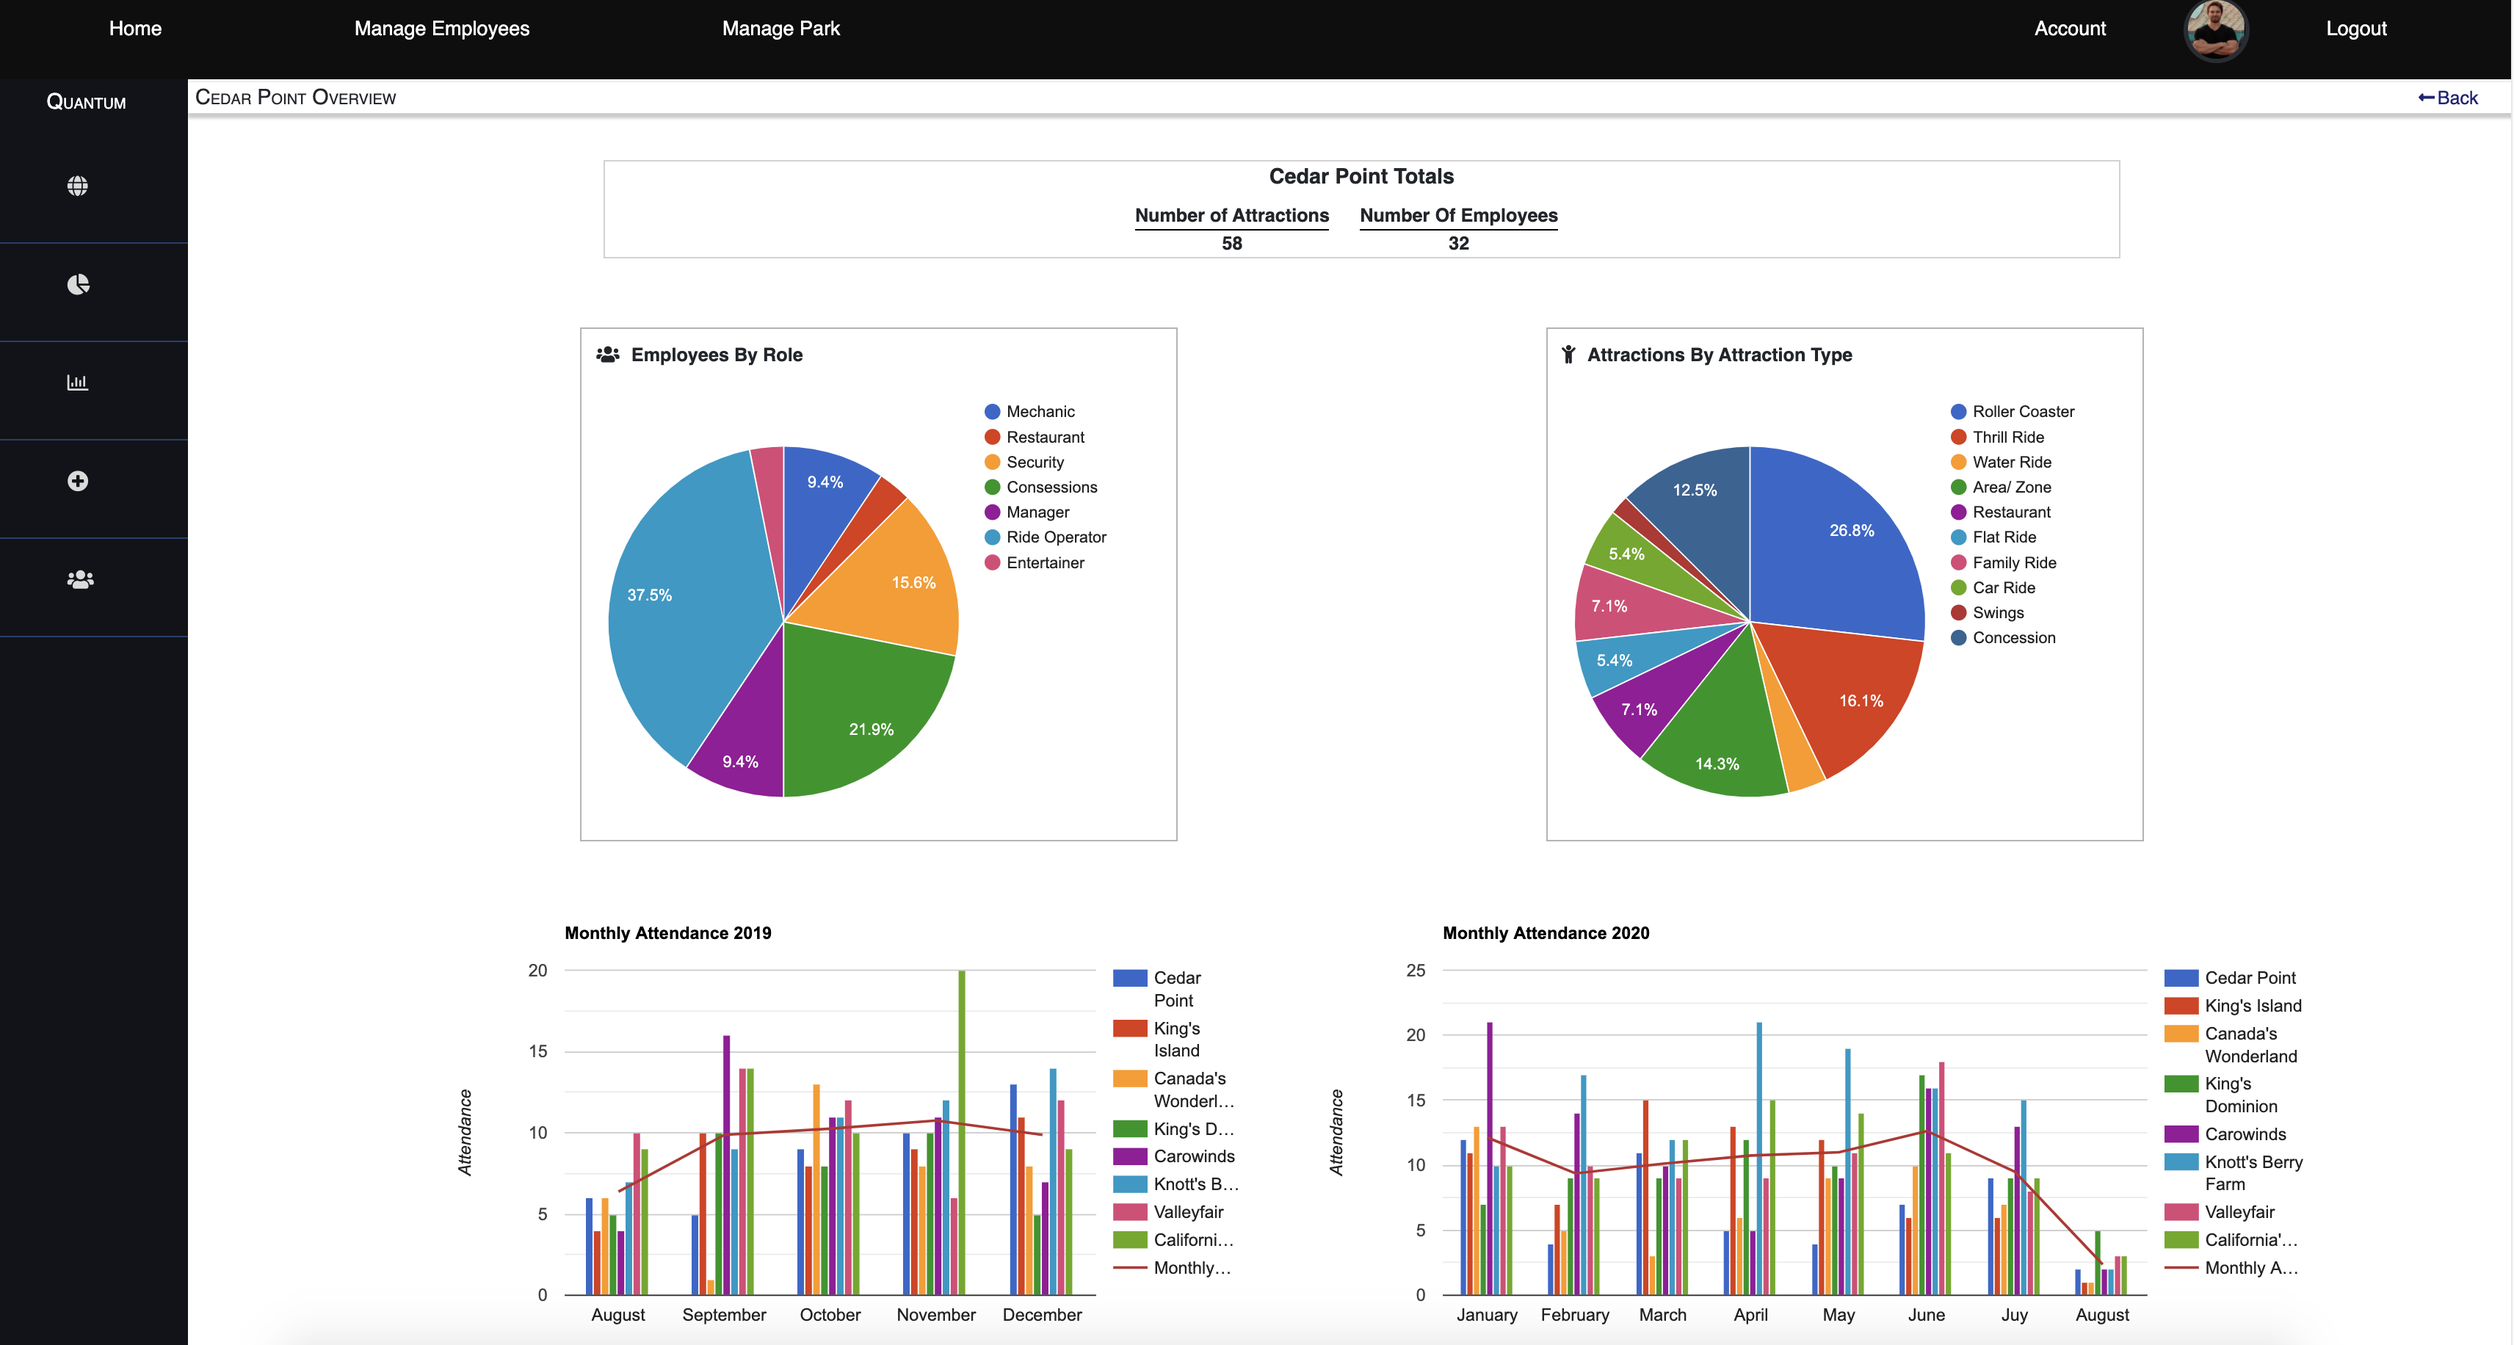
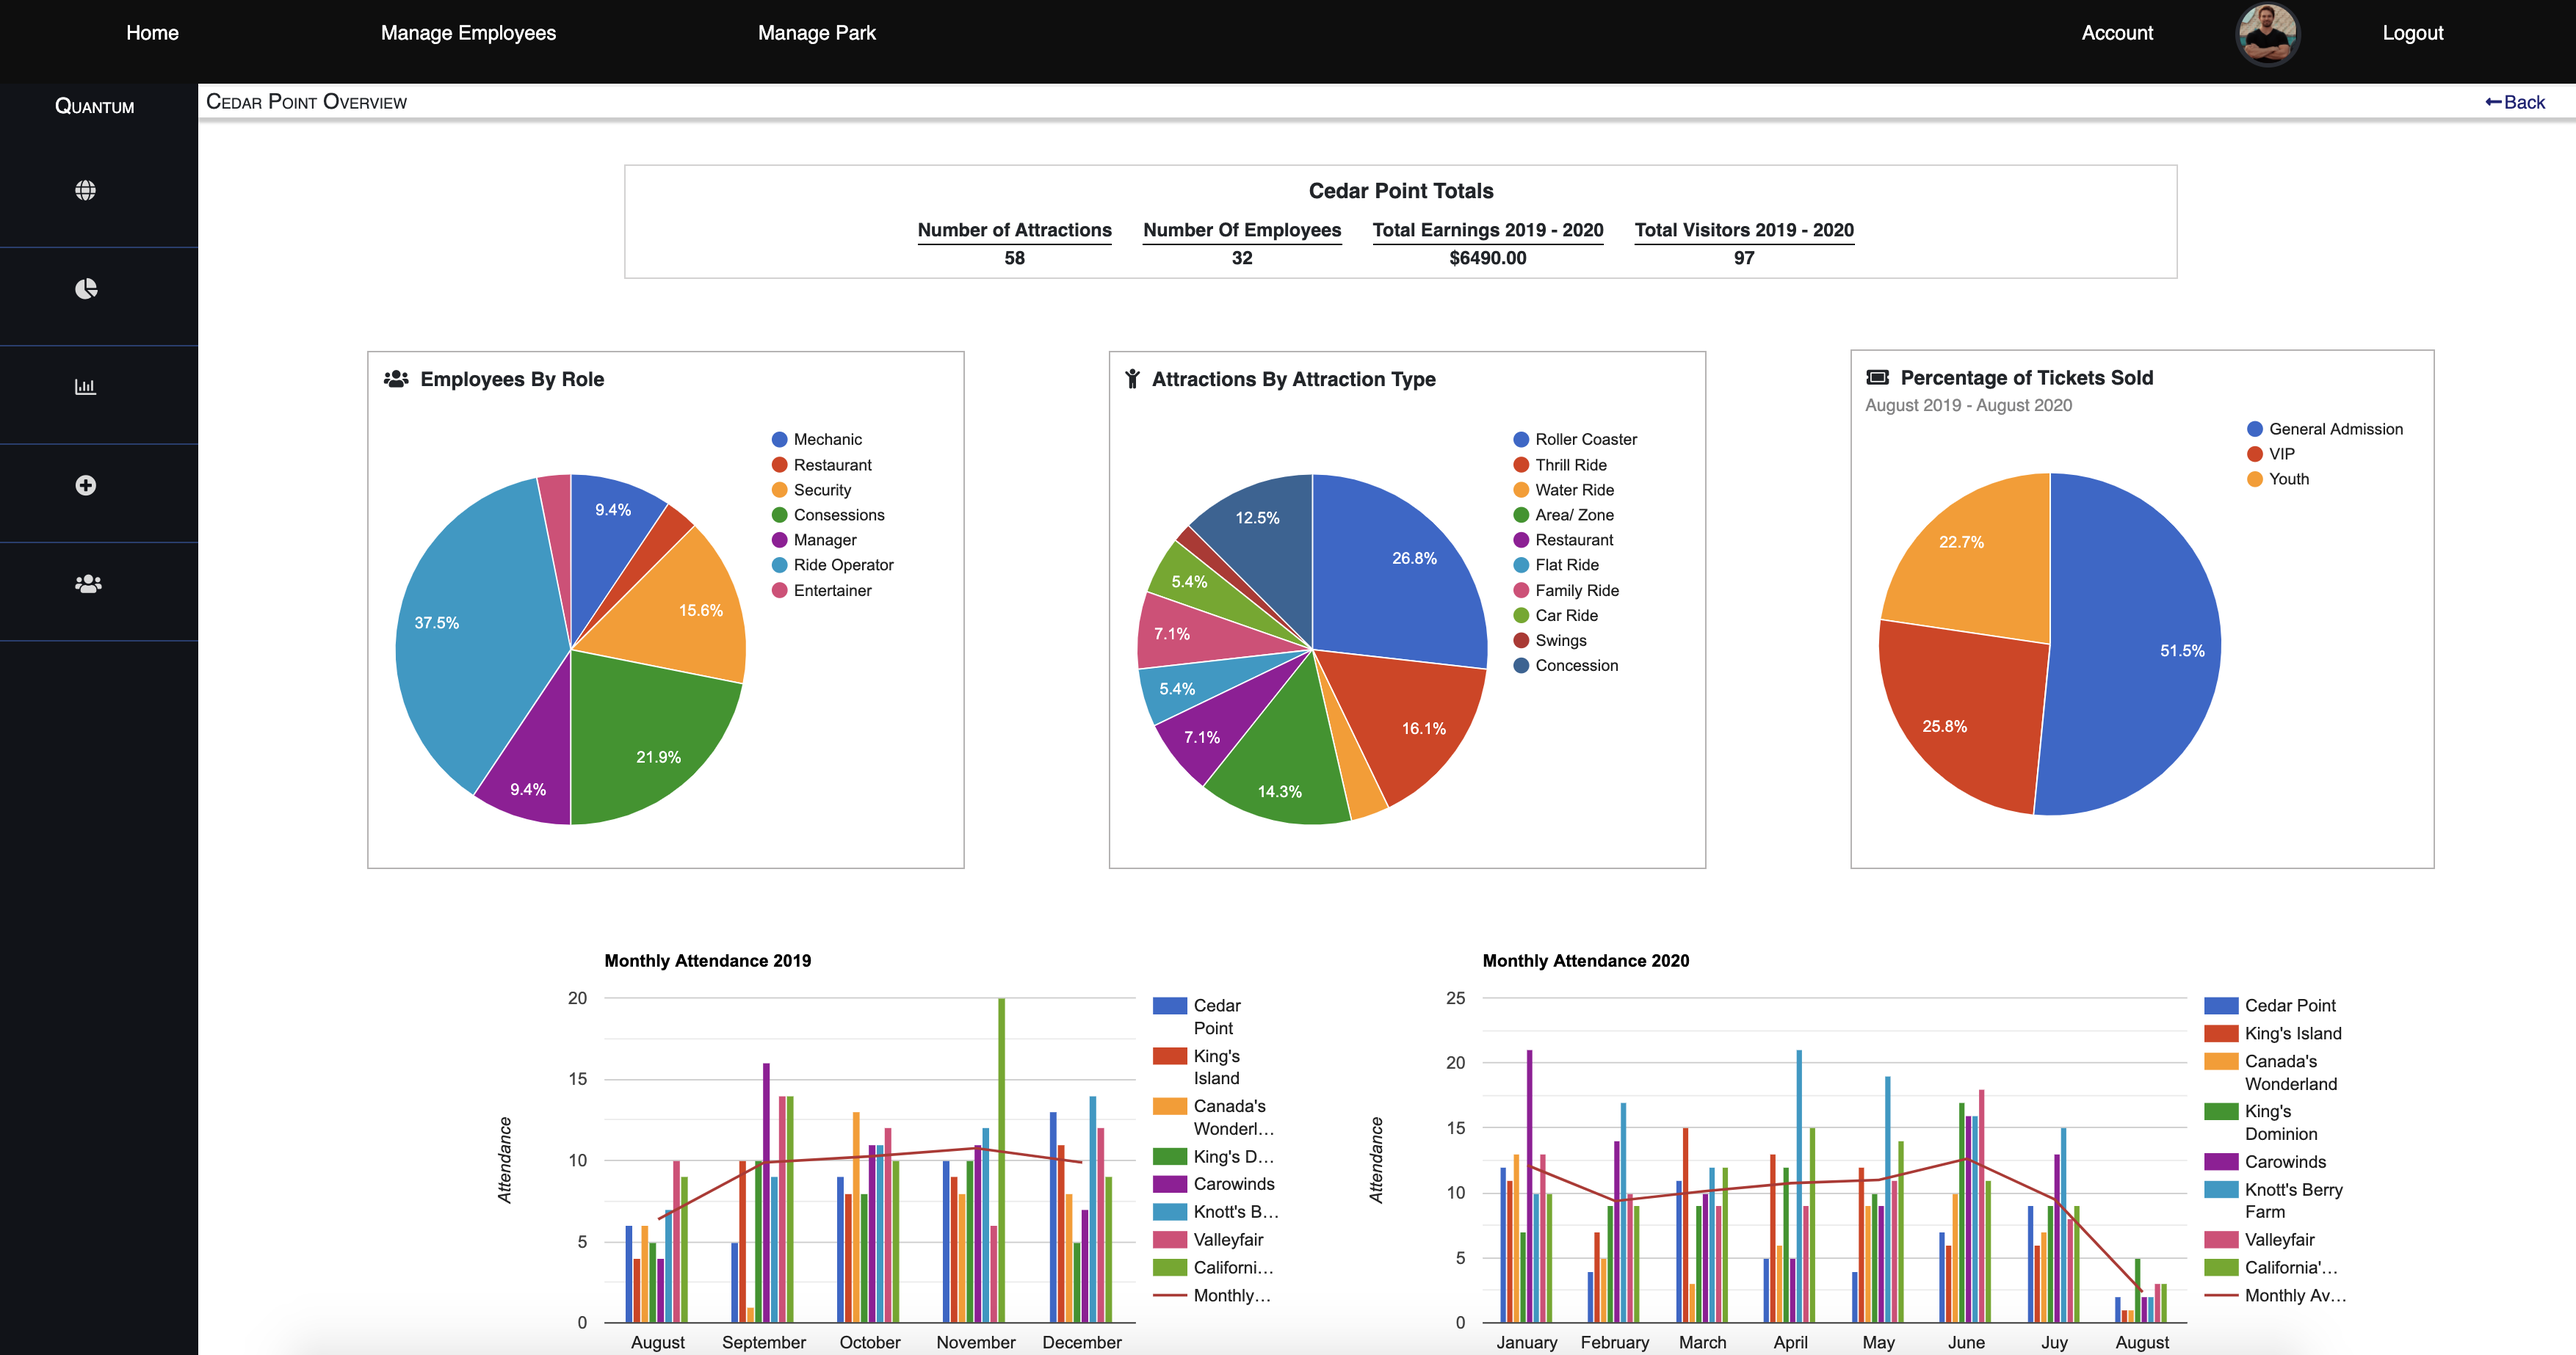
feat: ticket chart and visitor to park totals.

diff --git a/quantummanagementapp/static/scripts/charts.js b/quantummanagementapp/static/scripts/charts.js
@@ -1,15 +1,10 @@
 import {
   getParkList,
   getEmployeeList,
-  retrieveAttraction,
   getParkAttractions,
-  getAttractionType,
   getVisitorsList,
 } from "./services.js";
 
-// get all the data I need
-// drawResource Function
-// Master init function, in HTML that calls the other init functions to kick off everything at once.
 
 const getEmployeeData = async (parkId) => {
   const fetchEmployees = await getEmployeeList();
@@ -56,7 +51,6 @@ const drawEmployeesChart = async (parkId) => {
 
   // Set chart options
   const options = {
-    // title: "Employees By Role",
     chartArea: {left:20,top:20,width:'99%',height:'99%'},
     width: 450,
     height: 350,
@@ -111,13 +105,12 @@ const drawAttractionTypeChart = async (parkId) => {
   });
 
   const typeData = new google.visualization.DataTable();
-  typeData.addColumn("string", "Position/Role");
-  typeData.addColumn("number", "Employees");
+  typeData.addColumn("string", "Type");
+  typeData.addColumn("number", "Attractions");
   typeData.addRows(rows);
 
-  // Set chart options
+
   const options = {
-    // title: "Attractions by Attraction Type",
     chartArea: {left:20,top:20,width:'99%',height:'99%'},
     width: 450,
     height: 350,
@@ -410,17 +403,77 @@ const drawAttendanceCharts = async () => {
 };
 
 
+const formatTicketsChart = async (parkId) => {
+  const visitors = await getVisitorsList(parkId);
+  const ticketPrices = visitors.map(visitor => {
+    const ticketPrice = visitor.ticket_price;
+    return parseInt(ticketPrice);
+  });
+  const getSumTickets = (acc, currVal) => acc + currVal;
+  const totalEarningsFromTickets = ticketPrices.reduce(getSumTickets)
+  const totalYearlyVisitors = ticketPrices.length;
 
+  const generalAdmission = []
+  const vip = []
+  const kidsTicket = []
+
+  for (var price of ticketPrices) {
+    if (price === 60) {
+      generalAdmission.push(price);
+    } else if (price === 100) {
+      vip.push(price);
+    } else {
+      kidsTicket.push(price)
+    }
+  }
+  const visitorObject = {
+    visitorsYOY: totalYearlyVisitors,
+    earningsYOY: totalEarningsFromTickets,
+    generalAdmission: ["General Admission", generalAdmission.length],
+    VIP: ["VIP", vip.length],
+    kidsTicket: ["Youth", kidsTicket.length]
+  };
+  return visitorObject;
+};
+
+const drawTicketChart = async (parkId) => {
+  const formattedTickets = await formatTicketsChart(parkId);
+  const genAdmission = formattedTickets.generalAdmission;
+  const VIP = formattedTickets.VIP;
+  const youth = formattedTickets.kidsTicket;
+
+  let data = [];
+  data.push(genAdmission);
+  data.push(VIP);
+  data.push(youth);
+
+  const ticketData = new google.visualization.DataTable();
+  ticketData.addColumn("string", "Ticket Type");
+  ticketData.addColumn("number", "Price");
+  ticketData.addRows(data);
+
+  const options = {
+    chartArea: {left:20, width:'99%',height:'99%'},
+    width: 440,
+    height: 340,
+    // colors:['#8B0000', '#00008B', '#FF4500']
+  };
+
+  const ticketsChart = new google.visualization.PieChart(document.getElementById("ticket_chart_div"));
+  ticketsChart.draw(ticketData, options);
+
+}
 
 
 const drawAllCharts = (parkId) => {
   drawEmployeesChart(parkId);
   drawAttractionTypeChart(parkId);
   drawAttendanceCharts();
+  drawTicketChart(parkId);
 };
 
 const init = (parkId) => {
   google.charts.setOnLoadCallback(drawAllCharts(parkId));
 };
 
-export { init };
+export { init, formatTicketsChart  };

diff --git a/quantummanagementapp/templates/overview/overview.html b/quantummanagementapp/templates/overview/overview.html
@@ -58,12 +58,18 @@
                 <div class="for_border_bottom">Number Of Employees</div>
                  <div class="num_of_employees_variable">{{employee_count}}</div>
             </div>
+            <div class="total_earnings_container">
+                <div class="for_border_bottom">Total Earnings 2019 - 2020</div>
+                 <div class="sum_earnings_variable">${{sum_earnings}}</div>
+            </div>
+            <div class="total_visitors_container">
+                <div class="for_border_bottom">Total Visitors 2019 - 2020</div>
+                 <div class="sum_visitors_variable">{{total_visitors}}</div>
+            </div>
         </div>
     </div>
 
-
     <div class="charts_container">
-        
         <div class="employees_chart">
             <div class="employees_by_role_title_chart"><i class="fas fa-users"></i>Employees By Role</div>
             <div id="employee_chart_div"></div>
@@ -72,9 +78,13 @@
         <div class="attraction_chart">
             <div class="attraction_by_type_title_chart"><i class="fas fa-child"></i>Attractions By Attraction Type</div>
             <div id="attraction_type_chart_div"></div>
-
         </div>
 
+        <div class="tickets_chart">
+            <div class="ticket_title_chart"><i class="fas fa-ticket-alt"></i>Percentage of Tickets Sold</div>
+            <div class="date_tickets_sold">August 2019 - August 2020</div>
+            <div id="ticket_chart_div"></div>
+        </div>
 
     </div>
     <div class="attendance_chart_container">
@@ -96,7 +106,7 @@
 {% block scripts%}
 <script type="text/javascript" src="https://www.gstatic.com/charts/loader.js"></script>
 <script type="module">
-    import { init } from "{% static 'scripts/charts.js'%}"
+    import { init, formatTicketsChart } from "{% static 'scripts/charts.js'%}"
 
     var parkId = parseInt(window.location.pathname.split('/')[2]);
 
@@ -104,8 +114,9 @@
       google.charts.load('current', { 'packages': ['corechart'] }).then(() => {
        init(parkId)
       })
-    }
-    initCharts(parkId)
+    };
+
+    initCharts(parkId);
 
 </script>
 

diff --git a/quantummanagementapp/static/styles/overview/overview.css b/quantummanagementapp/static/styles/overview/overview.css
@@ -222,7 +222,7 @@
   margin-bottom: 7px;
   margin-left: 9px;
   font-weight: 600;
-  font-size: 14px;
+  font-size: 15px;
 }
 .employees_by_role_title_chart i {
   margin-right: 9px;
@@ -236,11 +236,54 @@
   margin-bottom: 7px;
   margin-left: 9px;
   font-weight: 600;
-  font-size: 14px;
+  font-size: 15px;
 }
 
 .attraction_by_type_title_chart i {
   margin-right: 9px;
+}
+
+.tickets_chart {
+  border: 1px solid rgb(182, 179, 179);
+}
+
+.ticket_title_chart {
+  margin-top: 10px;
+  margin-left: 9px;
+  font-weight: 600;
+  font-size: 15px;
+}
+
+.ticket_title_chart i {
+  margin-right: 9px;
+}
+
+.date_tickets_sold {
+  font-size: 13px;
+  margin-left: 10px;
+  color: #848485;
+}
+
+.total_earnings_container {
+  margin-right: 2%;
+  font-size: 14px;
+  font-weight: 600;
+}
+
+.sum_earnings_variable {
+  display: flex;
+  justify-content: center;
+}
+
+.total_visitors_container {
+  margin-right: 2%;
+  font-size: 14px;
+  font-weight: 600;
+}
+
+.sum_visitors_variable {
+  display: flex;
+  justify-content: center;
 }
 
 /************* Combo Charts *************/

diff --git a/quantummanagementapp/views/overview/overview.py b/quantummanagementapp/views/overview/overview.py
@@ -25,6 +25,9 @@ def overview(request, park_id):
 
         num_of_attractions = count_attractions(attractions)
         employee_count = count_employees(employees)
+        earnings = total_earnings(visitors)
+        sum_earnings = sum(earnings, 0)
+        total_visitors = len(earnings)
 
         template = 'overview/overview.html'
         context = {
@@ -39,6 +42,8 @@ def overview(request, park_id):
             'attractions': attractions,
             'num_of_attractions': num_of_attractions,
             'employee_count': employee_count,
+            'sum_earnings': sum_earnings,
+            'total_visitors': total_visitors,
         }
         return render(request, template, context)
 
@@ -57,3 +62,10 @@ def count_attractions(attractions):
         attractions_arr.append(ride)
     attractions_count = len(attractions_arr)
     return attractions_count
+
+
+def total_earnings(visitors):
+    tickets = []
+    for visitor in visitors:
+        tickets.append(visitor.ticket_price)
+    return tickets
